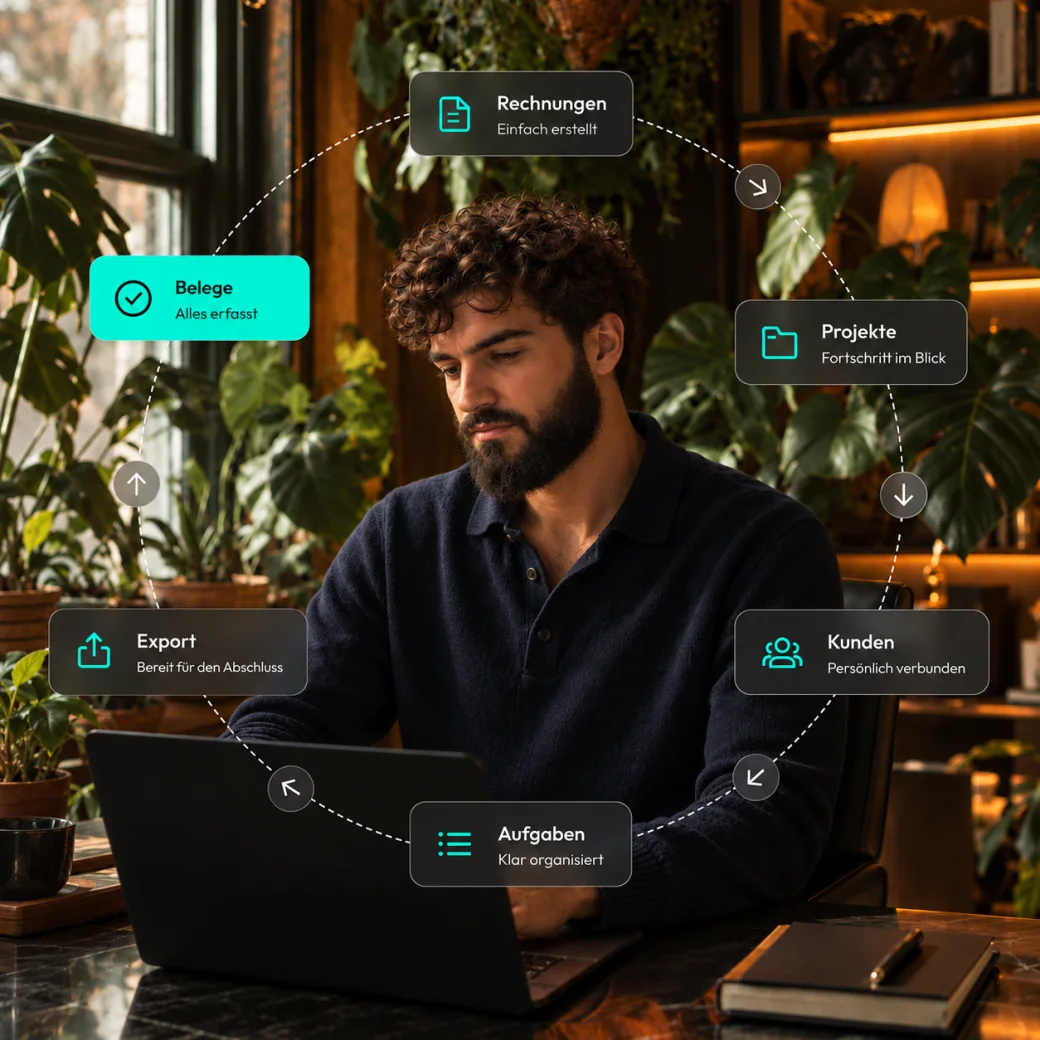
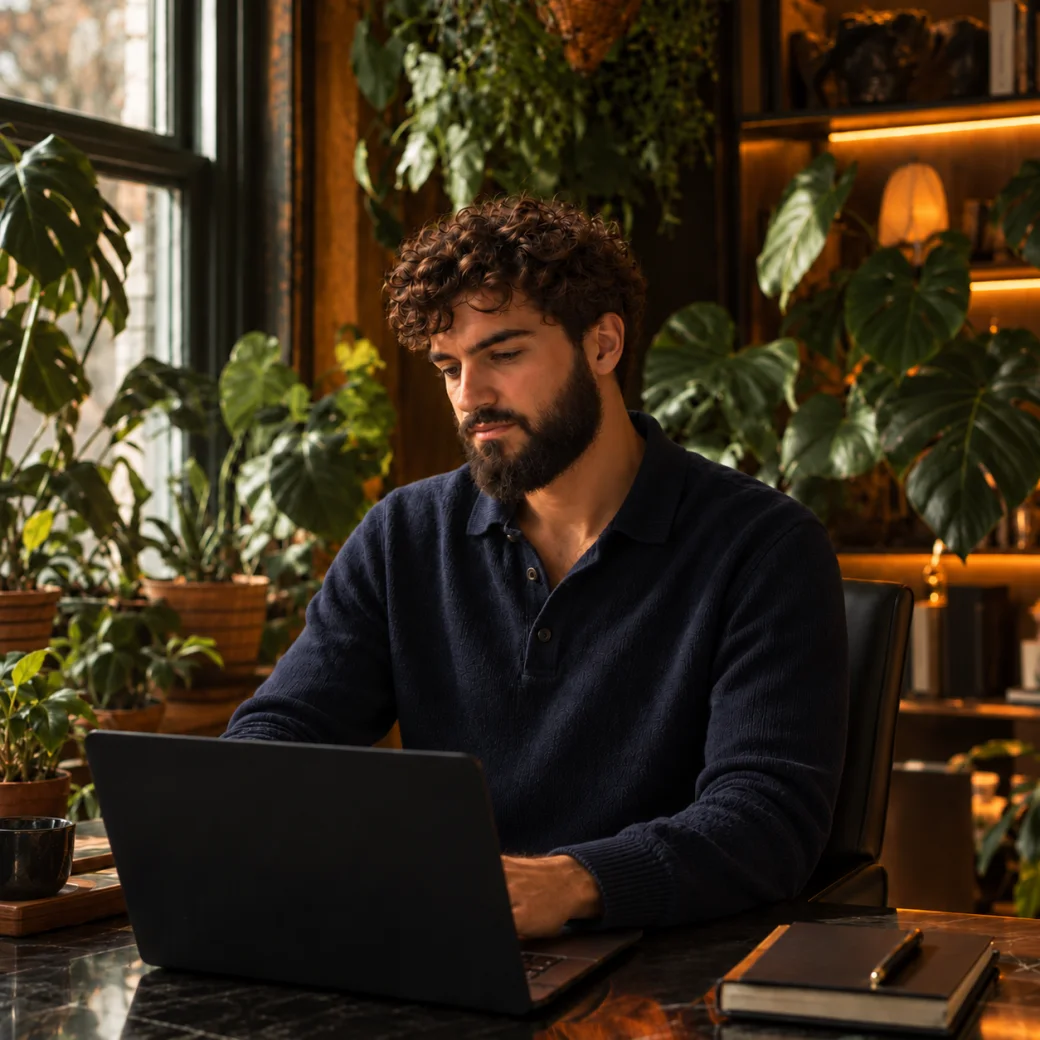
Hero: sauberes Keyvisual ohne eingebaute Chips, vier Glas-Datenkarten wieder um das Bild (DE+EN)

diff --git a/index.html b/index.html
@@ -237,6 +237,20 @@ footer { background: rgba(8,8,11,0.85); backdrop-filter: blur(28px); -webkit-bac
 [data-delay="3"] { transition-delay: 0.24s; }
 
 
+/* SCHWEBENDE GLAS-KARTEN (Hero) */
+.float-cards { display: contents; }
+.float-card { position: absolute; z-index: 2; background: rgba(10,10,14,0.78); border: 1px solid rgba(255,255,255,0.12); border-radius: 16px; padding: 0.85rem 1rem; backdrop-filter: blur(18px); -webkit-backdrop-filter: blur(18px); box-shadow: 0 24px 50px -20px rgba(0,0,0,0.8), 0 0 40px -18px rgba(29,222,180,0.45); min-width: 158px; animation: floaty 7s ease-in-out infinite; }
+.float-card small { display: block; font-size: 0.64rem; letter-spacing: 0.1em; text-transform: uppercase; color: var(--faint); font-weight: 700; margin-bottom: 0.3rem; }
+.float-card strong { display: block; font-size: 1.15rem; font-weight: 900; letter-spacing: -0.02em; line-height: 1.1; }
+.float-card span { display: block; font-size: 0.72rem; color: var(--muted); margin-top: 0.3rem; }
+.float-badge { display: inline-block; margin-top: 0.45rem; font-size: 0.64rem; font-weight: 800; padding: 0.16rem 0.55rem; border-radius: 99px; background: rgba(29,222,180,0.15); color: var(--teal); border: 1px solid rgba(29,222,180,0.3); letter-spacing: 0.04em; }
+.float-badge.warn { background: rgba(255,204,51,0.12); color: var(--warning); border-color: rgba(255,204,51,0.3); }
+.fc-1 { top: -4%; left: -12%; }
+.fc-2 { top: 16%; right: -8%; animation-delay: 1.6s; }
+.fc-3 { bottom: 20%; left: -14%; animation-delay: 3.2s; }
+.fc-4 { bottom: -5%; right: -3%; animation-delay: 4.8s; }
+@keyframes floaty { 0%,100% { transform: translateY(0); } 50% { transform: translateY(-10px); } }
+
 /* BENTO (Kennzahlen) */
 .band::before { content: ''; position: absolute; inset: 0; z-index: -1; background: linear-gradient(180deg, transparent, rgba(29,222,180,0.035) 30%, rgba(29,222,180,0.035) 70%, transparent); pointer-events: none; }
 .bento { display: grid; grid-template-columns: repeat(4, 1fr); grid-auto-rows: minmax(150px, auto); gap: 1.1rem; }
@@ -288,6 +302,8 @@ footer { background: rgba(8,8,11,0.85); backdrop-filter: blur(28px); -webkit-bac
 /* RESPONSIVE */
 @media (max-width: 1100px) {
   .hero-inner { grid-template-columns: minmax(0, 1fr); gap: 3rem; }
+  .float-cards { display: grid; grid-template-columns: 1fr 1fr; gap: 0.8rem; margin-top: 1.4rem; }
+  .float-card { position: static; animation: none; min-width: 0; }
   .hero-visual { max-width: 440px; width: 100%; margin: 0 auto; }
   .hero-logo { max-width: 100%; }
   .feat-grid { grid-template-columns: repeat(2, 1fr); }
@@ -444,6 +460,12 @@ footer { background: rgba(8,8,11,0.85); backdrop-filter: blur(28px); -webkit-bac
       <div class="hero-visual">
         <div class="hero-glow"></div>
         <img src="/assets/usely-hero-arbeitsplatz.webp" alt="Selbstständiger am Laptop, um ihn herum die USELY-Bereiche Rechnungen, Projekte, Kunden, Aufgaben, Export und Belege" class="hero-logo" width="1040" height="1040" fetchpriority="high">
+        <div class="float-cards">
+          <div class="float-card fc-1"><small>Rechnung RE-2026-0003</small><strong>2.839,34 €</strong><span class="float-badge">Bezahlt</span></div>
+          <div class="float-card fc-2"><small>Offene Rechnungen</small><strong>5.878,60 €</strong><span>2 ausstehend · 1 überfällig</span><span class="float-badge warn">Mahnung bereit</span></div>
+          <div class="float-card fc-3"><small>E-Rechnung</small><strong>XRechnung erzeugt</strong><span>ZUGFeRD-PDF gleich mit</span></div>
+          <div class="float-card fc-4"><small>Zeiten heute</small><strong>8:15 h</strong><span>643,50 € abrechenbar</span></div>
+        </div>
       </div>
     </div>
   </div>

diff --git a/en/index.html b/en/index.html
@@ -237,6 +237,20 @@ footer { background: rgba(8,8,11,0.85); backdrop-filter: blur(28px); -webkit-bac
 [data-delay="3"] { transition-delay: 0.24s; }
 
 
+/* SCHWEBENDE GLAS-KARTEN (Hero) */
+.float-cards { display: contents; }
+.float-card { position: absolute; z-index: 2; background: rgba(10,10,14,0.78); border: 1px solid rgba(255,255,255,0.12); border-radius: 16px; padding: 0.85rem 1rem; backdrop-filter: blur(18px); -webkit-backdrop-filter: blur(18px); box-shadow: 0 24px 50px -20px rgba(0,0,0,0.8), 0 0 40px -18px rgba(29,222,180,0.45); min-width: 158px; animation: floaty 7s ease-in-out infinite; }
+.float-card small { display: block; font-size: 0.64rem; letter-spacing: 0.1em; text-transform: uppercase; color: var(--faint); font-weight: 700; margin-bottom: 0.3rem; }
+.float-card strong { display: block; font-size: 1.15rem; font-weight: 900; letter-spacing: -0.02em; line-height: 1.1; }
+.float-card span { display: block; font-size: 0.72rem; color: var(--muted); margin-top: 0.3rem; }
+.float-badge { display: inline-block; margin-top: 0.45rem; font-size: 0.64rem; font-weight: 800; padding: 0.16rem 0.55rem; border-radius: 99px; background: rgba(29,222,180,0.15); color: var(--teal); border: 1px solid rgba(29,222,180,0.3); letter-spacing: 0.04em; }
+.float-badge.warn { background: rgba(255,204,51,0.12); color: var(--warning); border-color: rgba(255,204,51,0.3); }
+.fc-1 { top: -4%; left: -12%; }
+.fc-2 { top: 16%; right: -8%; animation-delay: 1.6s; }
+.fc-3 { bottom: 20%; left: -14%; animation-delay: 3.2s; }
+.fc-4 { bottom: -5%; right: -3%; animation-delay: 4.8s; }
+@keyframes floaty { 0%,100% { transform: translateY(0); } 50% { transform: translateY(-10px); } }
+
 /* BENTO (Kennzahlen) */
 .band::before { content: ''; position: absolute; inset: 0; z-index: -1; background: linear-gradient(180deg, transparent, rgba(29,222,180,0.035) 30%, rgba(29,222,180,0.035) 70%, transparent); pointer-events: none; }
 .bento { display: grid; grid-template-columns: repeat(4, 1fr); grid-auto-rows: minmax(150px, auto); gap: 1.1rem; }
@@ -288,6 +302,8 @@ footer { background: rgba(8,8,11,0.85); backdrop-filter: blur(28px); -webkit-bac
 /* RESPONSIVE */
 @media (max-width: 1100px) {
   .hero-inner { grid-template-columns: minmax(0, 1fr); gap: 3rem; }
+  .float-cards { display: grid; grid-template-columns: 1fr 1fr; gap: 0.8rem; margin-top: 1.4rem; }
+  .float-card { position: static; animation: none; min-width: 0; }
   .hero-visual { max-width: 440px; width: 100%; margin: 0 auto; }
   .hero-logo { max-width: 100%; }
   .feat-grid { grid-template-columns: repeat(2, 1fr); }
@@ -444,6 +460,12 @@ footer { background: rgba(8,8,11,0.85); backdrop-filter: blur(28px); -webkit-bac
       <div class="hero-visual">
         <div class="hero-glow"></div>
         <img src="/assets/usely-hero-arbeitsplatz.webp" alt="A freelancer at his laptop, surrounded by the USELY areas: invoices, projects, customers, tasks, export and receipts" class="hero-logo" width="1040" height="1040" fetchpriority="high">
+        <div class="float-cards">
+          <div class="float-card fc-1"><small>Invoice RE-2026-0003</small><strong>2,839.34 €</strong><span class="float-badge">Paid</span></div>
+          <div class="float-card fc-2"><small>Open invoices</small><strong>5,878.60 €</strong><span>2 pending · 1 overdue</span><span class="float-badge warn">Reminder ready</span></div>
+          <div class="float-card fc-3"><small>E-invoice</small><strong>XRechnung created</strong><span>ZUGFeRD PDF included</span></div>
+          <div class="float-card fc-4"><small>Hours today</small><strong>8:15 h</strong><span>643.50 € billable</span></div>
+        </div>
       </div>
     </div>
   </div>
